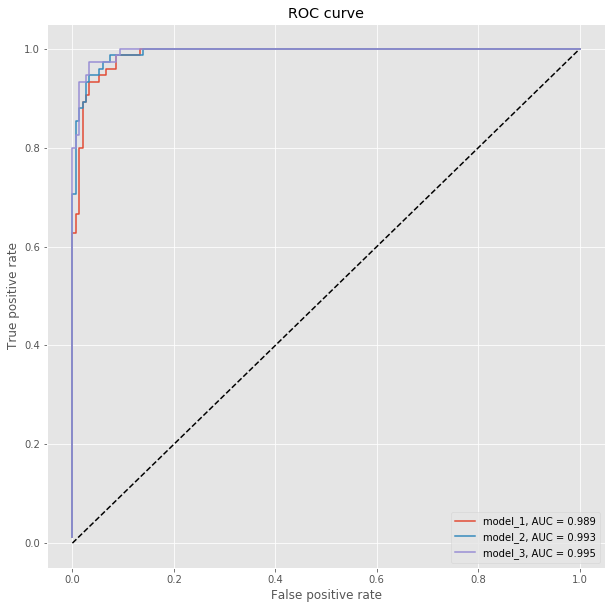
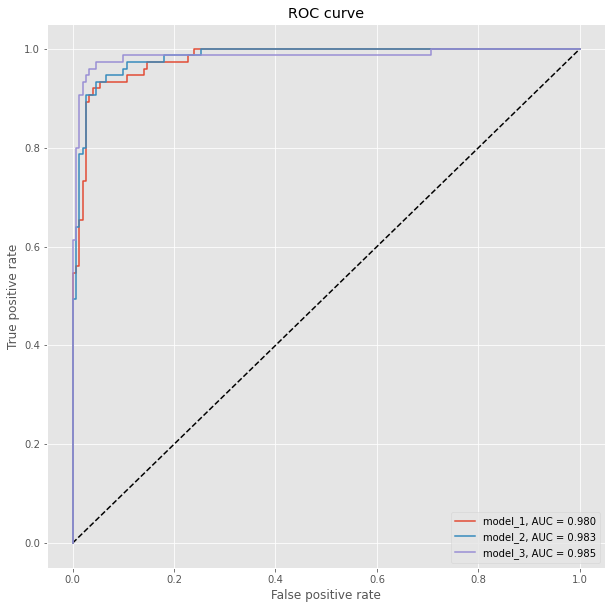
Update articles

diff --git a/_posts/2018-08-04-keras-iris.md b/_posts/2018-08-04-keras-iris.md
@@ -9,20 +9,20 @@ layout: post
 redirect_from: /notebooks/keras-iris/
 tags: ['Python', 'Keras', 'Neural Networks']
 ---
-In this short notebook we will take a quick look on how to use [Keras](https://keras.io/) with the familiar Iris data set. We will compare networks with the regular [Dense](https://keras.io/layers/core/) layer with different number of nodes and we will employ a [Softmax](https://en.wikipedia.org/wiki/Softmax_function) activation function and the [Adam](https://arxiv.org/abs/1412.6980) optimizer.
+In this short article we will take a quick look on how to use [Keras](https://keras.io/) with the familiar Iris data set. We will compare networks with the regular [Dense](https://keras.io/layers/core/) layer with different number of nodes and we will employ a [Softmax](https://en.wikipedia.org/wiki/Softmax_function) activation function and the [Adam](https://arxiv.org/abs/1412.6980) optimizer.
+
+## Data Preperation
+
+To prepare the data, we will simply use the [OneHotEncoder](http://scikit-learn.org/stable/modules/generated/sklearn.preprocessing.OneHotEncoder.html) to encode the integer features into a [One-hot](https://en.wikipedia.org/wiki/One-hot) vector and we will use a [StandardScaler](http://scikit-learn.org/stable/modules/generated/sklearn.preprocessing.StandardScaler.html) to remove the mean and scale the features to unit variance. Finally we want to perform a [train test split](http://scikit-learn.org/stable/modules/generated/sklearn.model_selection.train_test_split.html#sklearn.model_selection.train_test_split) to compare our results later on.
 
 
 ```python
 import numpy as np
 import pandas as pd
 import matplotlib.pyplot as plt
+
 plt.style.use('ggplot')
-%matplotlib inline
 ```
-
-## Data Preperation
-
-To prepare the data, we will simply use the [OneHotEncoder](http://scikit-learn.org/stable/modules/generated/sklearn.preprocessing.OneHotEncoder.html) to encode the integer features into a [One-hot](https://en.wikipedia.org/wiki/One-hot) vector and we will use a [StandardScaler](http://scikit-learn.org/stable/modules/generated/sklearn.preprocessing.StandardScaler.html) to remove the mean and scale the features to unit variance. Finally we want to perform a [train test split](http://scikit-learn.org/stable/modules/generated/sklearn.model_selection.train_test_split.html#sklearn.model_selection.train_test_split) to compare our results later on.
 
 
 ```python
@@ -93,6 +93,7 @@ Now we configure the neural networks as discussed before and we take a look at t
 # In order to ignore FutureWarning
 import warnings
 warnings.simplefilter(action='ignore', category=FutureWarning)
+warnings.simplefilter(action='ignore', category=DeprecationWarning)
 
 from keras.models import Sequential
 from keras.layers import Dense
@@ -119,43 +120,43 @@ for create_model in models:
     create_model().summary()
 ```
 
-    Using TensorFlow backend.
-
-
+    Model: "model_1"
     _________________________________________________________________
     Layer (type)                 Output Shape              Param #   
     =================================================================
-    dense_1 (Dense)              (None, 8)                 40        
+    dense_19 (Dense)             (None, 8)                 40        
     _________________________________________________________________
-    dense_2 (Dense)              (None, 3)                 27        
+    dense_20 (Dense)             (None, 3)                 27        
     =================================================================
     Total params: 67
     Trainable params: 67
     Non-trainable params: 0
     _________________________________________________________________
+    Model: "model_2"
     _________________________________________________________________
     Layer (type)                 Output Shape              Param #   
     =================================================================
-    dense_3 (Dense)              (None, 8)                 40        
+    dense_21 (Dense)             (None, 8)                 40        
     _________________________________________________________________
-    dense_4 (Dense)              (None, 8)                 72        
+    dense_22 (Dense)             (None, 8)                 72        
     _________________________________________________________________
-    dense_5 (Dense)              (None, 3)                 27        
+    dense_23 (Dense)             (None, 3)                 27        
     =================================================================
     Total params: 139
     Trainable params: 139
     Non-trainable params: 0
     _________________________________________________________________
+    Model: "model_3"
     _________________________________________________________________
     Layer (type)                 Output Shape              Param #   
     =================================================================
-    dense_6 (Dense)              (None, 8)                 40        
+    dense_24 (Dense)             (None, 8)                 40        
     _________________________________________________________________
-    dense_7 (Dense)              (None, 8)                 72        
+    dense_25 (Dense)             (None, 8)                 72        
     _________________________________________________________________
-    dense_8 (Dense)              (None, 8)                 72        
+    dense_26 (Dense)             (None, 8)                 72        
     _________________________________________________________________
-    dense_9 (Dense)              (None, 3)                 27        
+    dense_27 (Dense)             (None, 3)                 27        
     =================================================================
     Total params: 211
     Trainable params: 211
@@ -193,14 +194,14 @@ for create_model in models:
 ```
 
     Model name: model_1
-    Test loss: 0.2956871708234151
-    Test accuracy: 0.9333333333333333
+    Test loss: 0.27706020573774975
+    Test accuracy: 0.9333333373069763
     Model name: model_2
-    Test loss: 0.185623845855395
-    Test accuracy: 0.9333333333333333
+    Test loss: 0.19892012139161427
+    Test accuracy: 0.9333333373069763
     Model name: model_3
-    Test loss: 0.13748167728384336
-    Test accuracy: 0.9466666666666667
+    Test loss: 0.1849645201365153
+    Test accuracy: 0.9333333373069763
 
 
 # Plot Accuracy and Loss from Training
@@ -212,17 +213,16 @@ Let's have a look how our models perform. We can clearly see that adding more no
 fig, (ax1, ax2) = plt.subplots(2, figsize=(8, 6))
 
 for model_name in history_dict:
-    val_acc = history_dict[model_name][0].history['val_acc']
+    val_accurady = history_dict[model_name][0].history['val_accuracy']
     val_loss = history_dict[model_name][0].history['val_loss']
-    ax1.plot(val_acc, label=model_name)
+    ax1.plot(val_accurady, label=model_name)
     ax2.plot(val_loss, label=model_name)
     
 ax1.set_ylabel('validation accuracy')
 ax2.set_ylabel('validation loss')
 ax2.set_xlabel('epochs')
 ax1.legend()
-ax2.legend()
-plt.show()
+ax2.legend();
 ```
 
 

diff --git a/_posts/2020-08-17-python-google-analytics.md b/_posts/2020-08-17-python-google-analytics.md
@@ -2,7 +2,6 @@
 title: "Google Analytics Analytics with Python"
 category: blog
 comments: True
-exclude: True
 featured: True
 image: /assets/python_google_analytics_files/ga-python.png
 layout: post
